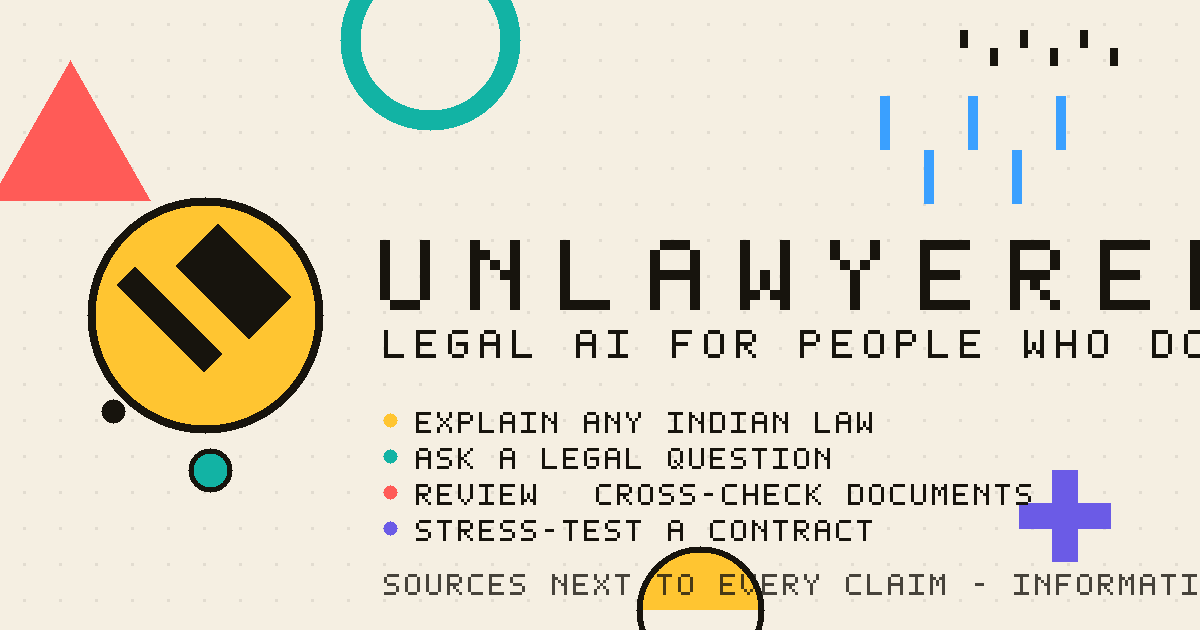
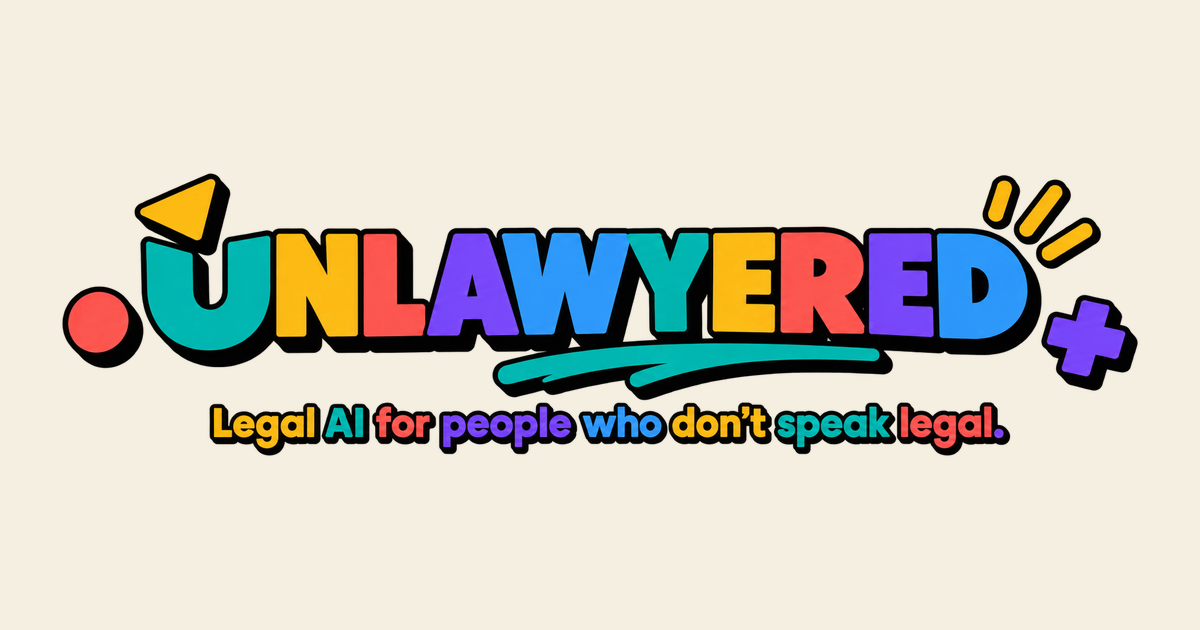
Swap the gavel mark for the colorful bubble-letter UNLAWYERED wordmark
Header, 404 page, favicon, and OG card now use the new brand image:
a wordmark-only crop (tagline stripped so it never duplicates nearby
text) in the header, an isolated teal-U square as the favicon and
apple-touch-icon, and a rebuilt 1200x630 OG card with the full lockup
on the brand cream background.

🤖 Generated with Codebuff

diff --git a/apps/web/src/components/Logo.tsx b/apps/web/src/components/Logo.tsx
@@ -1,68 +1,36 @@
 /**
- * The UNLAWYERED mark: a gavel striking inside a shield, drawn flat for the
- * Memphis identity — mustard shield, ink head, cream handle with an ink
- * outline (so head and handle read separately at small sizes), coral strike
- * point with impact ticks. Pure inline SVG, no gradients, no drop shadows.
+ * The UNLAWYERED mark: the colorful bubble-letter wordmark (Memphis shapes,
+ * yellow triangle, coral dot, purple plus) as an image asset rendered from
+ * /logo-mark.png — a wordmark-only crop of the full lockup, so it can sit
+ * next to text without duplicating it.
+ *
+ * `Logo` renders the full horizontal mark; `LogoIcon` renders the square
+ * teal-U emblem for standalone spots (favicon-style, small badges).
+ * Sizes are set via CSS height so the mark scales crisply; width follows
+ * the image's own aspect ratio.
  */
-export function Logo({ size = 28 }: { size?: number }) {
+export function Logo({ height = 34 }: { height?: number }) {
   return (
-    <svg
-      width={size}
-      height={size}
-      viewBox="0 0 48 48"
-      fill="none"
-      xmlns="http://www.w3.org/2000/svg"
-      role="img"
-      aria-label="UNLAWYERED logo"
+    <img
+      src="/logo-mark.png"
+      alt="UNLAWYERED"
       className="logo"
-    >
-      {/* Shield */}
-      <path
-        d="M24 3.5 41 9.5v13.8c0 10.4-6.9 17.6-17 21.2C13.9 40.9 7 33.7 7 23.3V9.5L24 3.5Z"
-        fill="var(--mustard, #ffc531)"
-        stroke="var(--ink, #17140d)"
-        strokeWidth="3"
-        strokeLinejoin="round"
-      />
+      style={{ height }}
+      draggable={false}
+    />
+  );
+}
 
-      {/* Handle: cream with an ink outline, tucked under the head */}
-      <rect
-        x="22.8"
-        y="17.3"
-        width="3.6"
-        height="12.4"
-        rx="1.8"
-        transform="rotate(45 24.6 23.5)"
-        fill="var(--bg-raised, #fffdf7)"
-        stroke="var(--ink, #17140d)"
-        strokeWidth="2.2"
-      />
-
-      {/* Gavel head */}
-      <rect
-        x="26.2"
-        y="12.6"
-        width="11.4"
-        height="7.2"
-        rx="2"
-        transform="rotate(45 31.9 16.2)"
-        fill="var(--ink, #17140d)"
-      />
-
-      {/* Strike point: coral dot + impact ticks */}
-      <circle
-        cx="16.6"
-        cy="31.6"
-        r="3.2"
-        fill="var(--coral, #ff5b57)"
-        stroke="var(--ink, #17140d)"
-        strokeWidth="2"
-      />
-      <g stroke="var(--ink, #17140d)" strokeWidth="2.2" strokeLinecap="round">
-        <path d="M12.8 34.2 11.4 35.6" />
-        <path d="M16.2 36.4 16.2 38.4" />
-        <path d="M19.6 34.2 21 35.6" />
-      </g>
-    </svg>
+/** Square teal-U emblem from the lockup, for standalone/icon-sized use. */
+export function LogoIcon({ size = 28 }: { size?: number }) {
+  return (
+    <img
+      src="/icon-192.png"
+      alt=""
+      aria-hidden="true"
+      className="logo"
+      style={{ width: size, height: size }}
+      draggable={false}
+    />
   );
 }

diff --git a/apps/web/index.html b/apps/web/index.html
@@ -10,7 +10,9 @@
     />
     <meta name="theme-color" content="#f5efe2" />
 
-    <link rel="icon" type="image/svg+xml" href="/favicon.svg" />
+    <link rel="icon" type="image/png" href="/icon-192.png" />
+    <link rel="icon" type="image/png" sizes="192x192" href="/icon-192.png" />
+    <link rel="apple-touch-icon" href="/icon-192.png" />
 
     <!-- UNLAWYERED type system: Bricolage Grotesque (display) + DM Sans (body) -->
     <link rel="preconnect" href="https://fonts.googleapis.com" />
@@ -29,6 +31,7 @@
       content="Explain any Indian law, ask legal questions, review documents, cross-check against Indian law, and stress-test contracts — in plain English, with sources."
     />
     <meta property="og:image" content="/og-image.png" />
+    <meta property="og:image:type" content="image/png" />
     <meta property="og:image:width" content="1200" />
     <meta property="og:image:height" content="630" />
     <meta property="og:image:alt" content="UNLAWYERED — Legal AI for people who don't speak legal" />

diff --git a/apps/web/src/components/Layout.tsx b/apps/web/src/components/Layout.tsx
@@ -43,8 +43,7 @@ export function Layout() {
       <header className="site-header">
         <div className="site-header-inner">
           <Link to="/" className="brand">
-            <Logo size={32} />
-            <span className="brand-name">UNLAWYERED</span>
+            <Logo height={38} />
           </Link>
           <span className="tagline">Legal AI for people who don't speak legal</span>
           <nav className="nav" aria-label="Primary">

diff --git a/apps/web/src/pages/NotFound.tsx b/apps/web/src/pages/NotFound.tsx
@@ -7,7 +7,7 @@ import { Logo } from "../components/Logo";
 export function NotFound() {
   return (
     <div className="notfound">
-      <Logo size={72} />
+      <Logo height={84} />
       <p className="nf-kicker">COURT ADJOURNED</p>
       <h1 className="nf-code">404</h1>
       <h2 className="nf-title">Objection sustained.</h2>

diff --git a/apps/web/src/styles.css b/apps/web/src/styles.css
@@ -250,6 +250,11 @@ body.bg-dragging * {
 
 .brand .logo {
   flex: none;
+  display: block;
+  width: auto;
+  /* The colorful wordmark carries its own contrast; lift it slightly off
+     busy Memphis backdrops without dimming the colors. */
+  filter: drop-shadow(0 1px 0 rgba(23, 20, 13, 0.14));
 }
 
 .brand-name {
